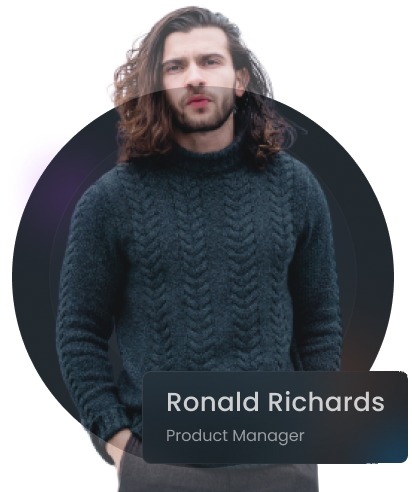
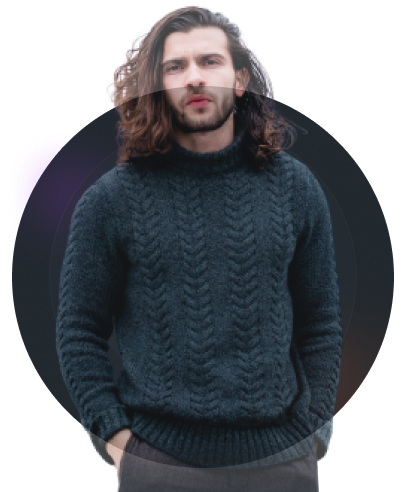
slider section adaptive

Changed region(s): [[0.3204, 0.7317, 0.9903, 0.9451], [0.3495, 0.8841, 0.4078, 0.9451]]

diff --git a/src/css/style.css b/src/css/style.css
@@ -1,1 +1,1 @@
-*,::after,::before{box-sizing:border-box}ol[class],ul[class]{padding:0}body,h1,h2,h3,h4,li,ol[class],p,ul[class]{margin:0}body{scroll-behavior:smooth;text-rendering:optimizeSpeed;background-color:#1e252b;font-family:Poppins,sans-serif;font-size:1rem}ol[class],ul[class]{list-style:none}img{max-width:100%;display:block}a{text-decoration:none}.container{max-width:1274px;margin:0 auto;padding:0 25px}.menu{display:flex;justify-content:space-between;align-items:center}.menu__links{display:flex;justify-content:space-between;align-items:center}.menu__links li{font-size:1rem}.menu__links li a{font-weight:500;color:rgba(255,255,255,.55)}.menu__links li:not(:last-child){margin-right:2.625em}.menu__links li a:hover{transition:.3s;color:#ff6e30}.logo{display:flex;align-items:center}.logo__icon{width:38px;height:38px}.logo__title{font-weight:600;font-size:1.375rem;color:#fff;margin-left:.54em}.btn{width:118px;min-height:48px;padding:12px 26px;color:#fff;background-color:#ff6e30;border-radius:8px;border:none;font-size:1rem;font-weight:600;cursor:pointer}.btn_clear{color:rgba(255,255,255,.55);background-color:#1e252b}.btn_clear:hover{border:.5px solid #ff6e30;color:#ff6e30;transition:.3s}.btn__medium{width:130px}.btn__card{width:106px;height:42px;background-color:#1e252b;color:rgba(255,255,255,.55)}.btn_big{width:184px;min-height:64px;background-color:#1e252b;color:#ff6e30;border:1px solid #343a40;font-size:1.25rem;font-weight:500}.btn_very-big{width:198px;font-size:1.125rem}.btn:hover{background-color:#1e252b;border:.5px solid #ff6e30;color:#ff6e30;transition:.3s}.title{font-weight:500;font-size:3rem;color:rgba(255,255,255,.9)}.subtitle{font-weight:400;font-size:1.125rem;line-height:1.6em;color:rgba(255,255,255,.55)}.form-search{position:relative;max-width:500px;height:64px}.form-search__input{background:#283036;border-radius:15px;width:100%;height:100%;border:1px solid #33393f;padding:21px 150px 21px 55px;color:rgba(255,255,255,.55)}.form-search__input::-moz-placeholder{font-weight:400;font-size:.875rem}.form-search__input:-ms-input-placeholder{font-weight:400;font-size:.875rem}.form-search__input::placeholder{font-weight:400;font-size:.875rem}.form-search__btn{position:absolute;right:1.7%;top:50%;transform:translateY(-50%)}.icon-search:before{font-size:1.5rem;position:absolute;margin-left:.8em;color:rgba(255,255,255,.55);top:50%;transform:translateY(-50%);z-index:1}.header{position:relative;padding:26px 0 0 0;background:url(../../img/main_bg.png) bottom right no-repeat;background-size:auto 81%}.header__content{margin-top:104px}.header__title{font-size:3.125rem;line-height:140%}.header__title span{color:#ff6e30}.header__subtitle{margin-top:30px}.header__form-search{margin-top:60px}.header__social{margin-top:110px;margin-left:15px}.header__social a::before{color:rgba(255,255,255,.9);font-size:1.5rem;margin-right:1.5em}.black{display:none;position:absolute;width:100%;min-height:43px;background-color:rgba(0,0,0,.1)}.card{width:392px;min-height:294px;padding:33px;border:1px solid #1e252b;border-radius:15px}.card__header{display:flex}.card__img{opacity:.78;margin-right:30px}.card__title{color:rgba(255,255,255,.78);font-weight:500;font-size:1.5rem}.card__title_figma{text-transform:uppercase}.card__price{margin-top:3px;color:rgba(255,165,55,.55);font-weight:400;font-size:1.1rem}.card__descr{font-weight:400;margin-top:30px;color:rgba(255,255,255,.55);font-size:1rem;line-height:1.875em}.card__descr_min{font-size:.875rem}.card__footer{margin-top:30px;display:flex;justify-content:space-between;align-items:center;padding:0 0 0 7px}.card__icon{display:flex;font-size:1.3rem}.card__like{margin-right:23px}.card__file::before,.card__like::before{color:rgba(255,255,255,.55);cursor:pointer}.card_min{width:288px;padding:28px 21px}.card:hover{background:rgba(40,48,54,.6);border:1px solid #2e343a}.card:hover .card__img{opacity:1}.card:hover .card__title{color:rgba(255,255,255,.9)}.card:hover .card__price{color:#ffa537}.card:hover .card__descr{color:rgba(255,255,255,.78)}.card:hover .card__like::before{color:rgba(255,255,255,.78)}.card:hover .card__file::before{color:rgba(255,255,255,.78)}.card:hover .btn__card{background-color:#ff6e30;color:#fff}.card:hover .btn__card:hover{background-color:rgba(40,48,54,.6);border:.5px solid #ff6e30;color:#ff6e30;transition:.3s}.tools{padding-top:200px}.tools__title{text-align:center}.tools__subtitle{text-align:center;margin-top:1.38em}.tools__cards{margin-top:90px;display:flex;justify-content:space-between;flex-wrap:wrap}.tools__card{margin-bottom:100px}.tools__btn{display:block;margin:0 auto}.brand{padding-top:200px}.brand__content{width:100%;min-height:253px;border-radius:25px;background:rgba(44,53,61,.2);padding:55px 82px}.brand__title{font-weight:500;text-align:center;color:rgba(255,255,255,.8);font-size:1.5rem}.brand__wrapper{margin-top:55px;display:flex;justify-content:space-between;align-items:center}.new-tools{padding-top:200px}.new-tools__wrapper{display:flex;justify-content:space-between}.new-tools__content{width:34%}.new-tools__subtitle{margin-top:1.6em}.new-tools__btn{margin-top:60px}.new-tools__cards{display:flex;justify-content:space-between;flex-wrap:wrap;width:48%}@media(max-width:1250px){.logo__title{font-size:1.2rem}.menu__links li{font-size:.9rem}.btn{font-size:.9rem;padding:12px;width:100px;height:40px}.btn_big{width:160px;font-size:1.1rem}.btn_very-big{width:160px;font-size:1rem}.title{font-size:2.85rem}.header__content{margin-top:70px}.header__title{font-size:2.9rem}.header__subtitle{margin-top:20px}.header__form-search{margin-top:40px}.header__social{margin-top:75px}.header__social a::before{font-size:1.3rem}.subtitle{font-size:1rem}.tools{padding-top:100px}.tools__cards{margin-top:70px;justify-content:space-around}.tools__card{margin-bottom:70px}.brand{padding-top:130px}.brand__content{padding:40px 60px;min-height:220px}.brand__title{font-size:1.4rem}.brand__wrapper{margin-top:40px}.brand__icon{width:160px}.card_min{width:340px}.new-tools{padding-top:120px}.new-tools__wrapper{flex-direction:column;align-items:center}.new-tools__content{width:100%;text-align:center}.new-tools__btn{margin-top:40px}.new-tools__cards{margin-top:50px;width:80%}}@media(max-width:991px){.logo__icon{width:33px;height:33px}.logo__title{font-size:1rem}.menu__links li{font-size:.8rem}.menu__links li:not(:last-child){margin-right:2.3em}.btn{font-size:.8rem;padding:12px;width:90px;min-height:35px}.btn__medium{width:95px}.btn__card{font-size:1rem}.btn_big{width:120px;font-size:.9rem;min-height:45px}.btn_very-big{width:140px;font-size:.9rem}.title{font-size:2.4rem}.header{padding:20px 0 0 0}.header__content{margin-top:50px}.header__title{font-size:2.5rem}.header__subtitle{margin-top:15px}.header__form-search{margin-top:40px}.header__social{margin-top:55px}.header__social a::before{font-size:1.2rem}.subtitle{font-size:.9rem}.form-search{max-width:400px;height:54px}.tools{padding-top:50px}.tools__cards{margin-top:40px;justify-content:space-between}.tools__card{margin-bottom:40px}.card{width:350px;padding:20px;min-height:240px}.card__img{width:50px}.card__title{font-size:1.3rem}.card__price{font-size:.9rem}.card__descr{font-size:.8rem}.brand{padding-top:80px}.brand__content{padding:20px 30px;min-height:150px}.brand__title{font-size:1.4rem}.brand__wrapper{margin-top:40px}.brand__icon{width:140px}.new-tools{padding-top:90px}.new-tools__cards{width:100%;justify-content:space-around}}@media(max-width:767px){.container{padding:0 15px}.black{display:block}.logo{margin-top:5px;z-index:1}.logo__icon{width:33px;height:33px}.logo__title{font-size:.9rem}.menu__links{display:none}.entry{display:none}.btn{font-size:.7rem;padding:6px;width:80px;height:30px}.btn__card{font-size:.8rem}.btn_big{width:110px;font-size:.9rem}.btn_very-big{width:110px}.title{font-size:1.9rem}.header{background-size:50% 81%;padding:0}.header__content{margin-top:20px}.header__title{font-size:2rem}.header__subtitle{margin-top:10px}.header__form-search{margin-top:30px}.header__social{margin-top:30px}.header__social a::before{font-size:1rem}.subtitle{font-size:.8rem}.form-search{max-width:300px;height:48px}.form-search__input{padding:21px 100px 21px 35px}.form-search__input::-moz-placeholder{font-size:.8rem}.form-search__input:-ms-input-placeholder{font-size:.8rem}.form-search__input::placeholder{font-size:.8rem}.icon-search:before{font-size:1.1rem;margin-left:.7em;color:rgba(255,255,255,.55);top:50%;transform:translateY(-50%);z-index:1}.tools{padding-top:30px}.tools__subtitle{margin-top:.9em}.tools__cards{margin-top:20px}.tools__card{margin-bottom:20px}.card{width:270px;padding:15px;min-height:200px}.card__img{width:40px;margin-right:15px}.card__title{font-size:1.2rem}.card__price{font-size:.7rem}.card__descr{font-size:.75rem;margin-top:15px}.card__footer{padding:0;margin-top:15px}.card__icon{font-size:1rem}.brand{padding-top:60px}.brand__content{padding:15px 10px;min-height:100px}.brand__title{font-size:1.2rem}.brand__wrapper{margin-top:25px;flex-wrap:wrap}.brand__icon{width:120px}.new-tools{padding-top:60px}.new-tools__subtitle{margin-top:1em}.new-tools__btn{margin-top:20px}.new-tools__cards{margin-top:30px}.new-tools__card{margin-bottom:5px}}@media(max-width:575px){.container{padding:0 10px}.title{font-size:1.55rem}.header{background-size:auto 81%;padding:0}.header__content{margin-top:20px}.header__title{font-size:1.6rem}.header__subtitle{margin-top:10px}.header__form-search{margin-top:30px}.header__social{margin-top:30px}.header__social a::before{font-size:1rem}.subtitle{font-size:.7rem}.tools{padding-top:20px}.tools__cards{margin-top:15px;justify-content:space-around}.tools__card{margin-bottom:8px}.card{width:300px;min-height:150px}.brand{padding-top:40px}.brand__content{padding:15px 10px 5px 10px;min-height:100px}.brand__title{font-size:1rem}.brand__wrapper{margin-top:10px;justify-content:space-around}.brand__icon{margin-bottom:10px}.new-tools{padding-top:40px}.new-tools__btn{margin-top:15px}.new-tools__cards{margin-top:20px}}
+*,::after,::before{box-sizing:border-box}ol[class],ul[class]{padding:0}body,h1,h2,h3,h4,li,ol[class],p,ul[class]{margin:0}body{scroll-behavior:smooth;text-rendering:optimizeSpeed;background-color:#1e252b;font-family:Poppins,sans-serif;font-size:1rem}ol[class],ul[class]{list-style:none}img{max-width:100%;display:block}a{text-decoration:none}.container{max-width:1274px;margin:0 auto;padding:0 25px}.arrow{width:20px;height:20px;border-top:3px solid rgba(255,255,255,.28);border-right:3px solid rgba(255,255,255,.28);border-radius:2px;cursor:pointer}.arrow:hover{transition:.3s;border-color:#ff6e30}.menu{display:flex;justify-content:space-between;align-items:center}.menu__links{display:flex;justify-content:space-between;align-items:center}.menu__links li{font-size:1rem}.menu__links li a{font-weight:500;color:rgba(255,255,255,.55)}.menu__links li:not(:last-child){margin-right:2.625em}.menu__links li a:hover{transition:.3s;color:#ff6e30}.logo{display:flex;align-items:center}.logo__icon{width:38px;height:38px}.logo__title{font-weight:600;font-size:1.375rem;color:#fff;margin-left:.54em}.btn{width:118px;min-height:48px;padding:12px 26px;color:#fff;background-color:#ff6e30;border-radius:8px;border:none;font-size:1rem;font-weight:600;cursor:pointer}.btn_clear{color:rgba(255,255,255,.55);background-color:#1e252b}.btn_clear:hover{border:.5px solid #ff6e30;color:#ff6e30;transition:.3s}.btn__medium{width:130px}.btn__card{width:106px;height:42px;background-color:#1e252b;color:rgba(255,255,255,.55)}.btn_big{width:184px;min-height:64px;background-color:#1e252b;color:#ff6e30;border:1px solid #343a40;font-size:1.25rem;font-weight:500}.btn_very-big{width:198px;font-size:1.125rem}.btn:hover{background-color:#1e252b;border:.5px solid #ff6e30;color:#ff6e30;transition:.3s}.title{font-weight:500;font-size:3rem;color:rgba(255,255,255,.9)}.subtitle{font-weight:400;font-size:1.125rem;line-height:1.6em;color:rgba(255,255,255,.55)}.form-search{position:relative;max-width:500px;height:64px}.form-search__input{background:#283036;border-radius:15px;width:100%;height:100%;border:1px solid #33393f;padding:21px 150px 21px 55px;color:rgba(255,255,255,.55)}.form-search__input::-moz-placeholder{font-weight:400;font-size:.875rem}.form-search__input:-ms-input-placeholder{font-weight:400;font-size:.875rem}.form-search__input::placeholder{font-weight:400;font-size:.875rem}.form-search__btn{position:absolute;right:1.7%;top:50%;transform:translateY(-50%)}.icon-search:before{font-size:1.5rem;position:absolute;margin-left:.8em;color:rgba(255,255,255,.55);top:50%;transform:translateY(-50%);z-index:1}.header{position:relative;padding:26px 0 0 0;background:url(../../img/main_bg.png) bottom right no-repeat;background-size:auto 81%}.header__content{margin-top:104px}.header__title{font-size:3.125rem;line-height:140%}.header__title span{color:#ff6e30}.header__subtitle{margin-top:30px}.header__form-search{margin-top:60px}.header__social{margin-top:110px;margin-left:15px}.header__social a::before{color:rgba(255,255,255,.9);font-size:1.5rem;margin-right:1.5em}.black{display:none;position:absolute;width:100%;min-height:43px;background-color:rgba(0,0,0,.1)}.card{width:392px;min-height:294px;padding:33px;border:1px solid #1e252b;border-radius:15px}.card__header{display:flex}.card__img{opacity:.78;margin-right:30px}.card__title{color:rgba(255,255,255,.78);font-weight:500;font-size:1.5rem}.card__title_figma{text-transform:uppercase}.card__price{margin-top:3px;color:rgba(255,165,55,.55);font-weight:400;font-size:1.1rem}.card__descr{font-weight:400;margin-top:30px;color:rgba(255,255,255,.55);font-size:1rem;line-height:1.875em}.card__descr_min{font-size:.875rem}.card__footer{margin-top:30px;display:flex;justify-content:space-between;align-items:center;padding:0 0 0 7px}.card__icon{display:flex;font-size:1.3rem}.card__like{margin-right:23px}.card__file::before,.card__like::before{color:rgba(255,255,255,.55);cursor:pointer}.card_min{width:288px;padding:28px 21px}.card:hover{background:rgba(40,48,54,.6);border:1px solid #2e343a}.card:hover .card__img{opacity:1}.card:hover .card__title{color:rgba(255,255,255,.9)}.card:hover .card__price{color:#ffa537}.card:hover .card__descr{color:rgba(255,255,255,.78)}.card:hover .card__like::before{color:rgba(255,255,255,.78)}.card:hover .card__file::before{color:rgba(255,255,255,.78)}.card:hover .btn__card{background-color:#ff6e30;color:#fff}.card:hover .btn__card:hover{background-color:rgba(40,48,54,.6);border:.5px solid #ff6e30;color:#ff6e30;transition:.3s}.tools{padding-top:200px}.tools__title{text-align:center}.tools__subtitle{text-align:center;margin-top:1.38em}.tools__cards{margin-top:90px;display:flex;justify-content:space-between;flex-wrap:wrap}.tools__card{margin-bottom:100px}.tools__btn{display:block;margin:0 auto}.brand{padding-top:200px}.brand__content{width:100%;min-height:253px;border-radius:25px;background:rgba(44,53,61,.2);padding:55px 82px}.brand__title{font-weight:500;text-align:center;color:rgba(255,255,255,.8);font-size:1.5rem}.brand__wrapper{margin-top:55px;display:flex;justify-content:space-between;align-items:center}.new-tools{padding-top:200px}.new-tools__wrapper{display:flex;justify-content:space-between}.new-tools__content{width:34%}.new-tools__subtitle{margin-top:1.6em}.new-tools__btn{margin-top:60px}.new-tools__cards{display:flex;justify-content:space-between;flex-wrap:wrap;width:48%}.slider{padding:200px 20px 0 20px}.slider__wrapper{display:flex;justify-content:space-between;align-items:center}.slider__back{transform:rotate(-135deg)}.slider__next{transform:rotate(45deg)}.slider__item{display:flex;justify-content:space-between;align-items:center;width:66%;position:relative}.slider__img{position:relative;max-width:399px}.slider__member{position:absolute;bottom:7%;right:3px;max-width:265px;background-color:rgba(40,48,54,.2);border:1px solid #38444e;border-radius:8px;-webkit-backdrop-filter:blur(50px);backdrop-filter:blur(50px);padding:10px 22px 16px 22px}.slider__title{color:rgba(255,255,255,.78);font-weight:500;font-size:1.625rem}.slider__subtitle{font-size:1rem;font-weight:400;color:rgba(255,255,255,.55)}.slider__quoutes{position:absolute;bottom:60%;left:48%}.slider__descr{width:46%;font-family:Roboto,sans-serif;font-weight:400;color:rgba(255,255,255,.78);font-size:.875rem;line-height:2.14em}.slider__count{margin:0 auto;margin-top:100px;max-width:168px;display:flex;justify-content:space-between}.slider__step{width:44px;height:6px;background-color:#283036;border-radius:4px}.slider__step_active{background-color:#ff6e30}@media(max-width:1250px){.logo__title{font-size:1.2rem}.menu__links li{font-size:.9rem}.btn{font-size:.9rem;padding:12px;width:100px;height:40px}.btn_big{width:160px;font-size:1.1rem}.btn_very-big{width:160px;font-size:1rem}.title{font-size:2.85rem}.header__content{margin-top:70px}.header__title{font-size:2.9rem}.header__subtitle{margin-top:20px}.header__form-search{margin-top:40px}.header__social{margin-top:75px}.header__social a::before{font-size:1.3rem}.subtitle{font-size:1rem}.tools{padding-top:100px}.tools__cards{margin-top:70px;justify-content:space-around}.tools__card{margin-bottom:70px}.brand{padding-top:130px}.brand__content{padding:40px 60px;min-height:220px}.brand__title{font-size:1.4rem}.brand__wrapper{margin-top:40px}.brand__icon{width:160px}.card_min{width:340px}.new-tools{padding-top:120px}.new-tools__wrapper{flex-direction:column;align-items:center}.new-tools__content{width:100%;text-align:center}.new-tools__btn{margin-top:40px}.new-tools__cards{margin-top:50px;width:80%}.slider{padding:130px 20px 0 20px}.slider__item{width:90%}}@media(max-width:991px){.logo__icon{width:33px;height:33px}.logo__title{font-size:1rem}.menu__links li{font-size:.8rem}.menu__links li:not(:last-child){margin-right:2.3em}.btn{font-size:.8rem;padding:12px;width:90px;min-height:35px}.btn__medium{width:95px}.btn__card{font-size:1rem}.btn_big{width:120px;font-size:.9rem;min-height:45px}.btn_very-big{width:140px;font-size:.9rem}.title{font-size:2.4rem}.header{padding:20px 0 0 0}.header__content{margin-top:50px}.header__title{font-size:2.5rem}.header__subtitle{margin-top:15px}.header__form-search{margin-top:40px}.header__social{margin-top:55px}.header__social a::before{font-size:1.2rem}.subtitle{font-size:.9rem}.form-search{max-width:400px;height:54px}.tools{padding-top:50px}.tools__cards{margin-top:40px;justify-content:space-between}.tools__card{margin-bottom:40px}.card{width:350px;padding:20px;min-height:240px}.card__img{width:50px}.card__title{font-size:1.3rem}.card__price{font-size:.9rem}.card__descr{font-size:.8rem}.brand{padding-top:80px}.brand__content{padding:20px 30px;min-height:150px}.brand__title{font-size:1.4rem}.brand__wrapper{margin-top:40px}.brand__icon{width:140px}.new-tools{padding-top:90px}.new-tools__cards{width:100%;justify-content:space-around}.arrow{width:16px;height:16px}.slider{padding:90px 20px 0 20px}.slider__descr{font-size:.7rem}.slider__quoutes{width:70px;bottom:65%;left:54%}.slider__img{width:50%}.slider__title{font-size:1rem}.slider__subtitle{font-size:.8rem}.slider__count{margin-top:50px;max-width:130px}.slider__step{width:30px}}@media(max-width:767px){.container{padding:0 15px}.black{display:block}.logo{margin-top:5px;z-index:1}.logo__icon{width:33px;height:33px}.logo__title{font-size:.9rem}.menu__links{display:none}.entry{display:none}.btn{font-size:.7rem;padding:6px;width:80px;height:30px}.btn__card{font-size:.8rem}.btn_big{width:110px;font-size:.9rem}.btn_very-big{width:110px}.title{font-size:1.9rem}.header{background-size:50% 81%;padding:0}.header__content{margin-top:20px}.header__title{font-size:2rem}.header__subtitle{margin-top:10px}.header__form-search{margin-top:30px}.header__social{margin-top:30px}.header__social a::before{font-size:1rem}.subtitle{font-size:.8rem}.form-search{max-width:300px;height:48px}.form-search__input{padding:21px 100px 21px 35px}.form-search__input::-moz-placeholder{font-size:.8rem}.form-search__input:-ms-input-placeholder{font-size:.8rem}.form-search__input::placeholder{font-size:.8rem}.icon-search:before{font-size:1.1rem;margin-left:.7em;color:rgba(255,255,255,.55);top:50%;transform:translateY(-50%);z-index:1}.tools{padding-top:30px}.tools__subtitle{margin-top:.9em}.tools__cards{margin-top:20px}.tools__card{margin-bottom:20px}.card{width:270px;padding:15px;min-height:200px}.card__img{width:40px;margin-right:15px}.card__title{font-size:1.2rem}.card__price{font-size:.7rem}.card__descr{font-size:.75rem;margin-top:15px}.card__footer{padding:0;margin-top:15px}.card__icon{font-size:1rem}.brand{padding-top:60px}.brand__content{padding:15px 10px;min-height:100px}.brand__title{font-size:1.2rem}.brand__wrapper{margin-top:25px;flex-wrap:wrap}.brand__icon{width:120px}.new-tools{padding-top:60px}.new-tools__subtitle{margin-top:1em}.new-tools__btn{margin-top:20px}.new-tools__cards{margin-top:30px}.new-tools__card{margin-bottom:5px}.slider{padding:40px 20px 0 20px}.slider__descr{font-size:.65rem}.slider__member{padding:8px 15px}.slider__title{font-size:.9rem}.slider__subtitle{font-size:.7rem}.slider__count{margin-top:40px;width:120px}}@media(max-width:575px){.container{padding:0 10px}.title{font-size:1.55rem}.header{background-size:auto 81%;padding:0}.header__content{margin-top:20px}.header__title{font-size:1.6rem}.header__subtitle{margin-top:10px}.header__form-search{margin-top:30px}.header__social{margin-top:30px}.header__social a::before{font-size:1rem}.subtitle{font-size:.7rem}.tools{padding-top:20px}.tools__cards{margin-top:15px;justify-content:space-around}.tools__card{margin-bottom:8px}.card{width:300px;min-height:150px}.brand{padding-top:40px}.brand__content{padding:15px 10px 5px 10px;min-height:100px}.brand__title{font-size:1rem}.brand__wrapper{margin-top:10px;justify-content:space-around}.brand__icon{margin-bottom:10px}.new-tools{padding-top:40px}.new-tools__btn{margin-top:15px}.new-tools__cards{margin-top:20px}.slider{padding:20px 10px 0 10px}.slider__item{flex-direction:column}.slider__img{width:75%}.slider__descr{width:80%;text-align:center}.slider__member{padding:5px 10px}.slider__title{font-size:.8rem}.slider__subtitle{font-size:.6rem}.slider__count{margin-top:20px;max-width:100px}.slider__step{width:25px}}

diff --git a/src/sass/base/_media.scss b/src/sass/base/_media.scss
@@ -98,6 +98,12 @@
             width: 80%
         }
     }
+    .slider {
+        padding: 130px 20px 0 20px;
+        &__item {
+            width: 90%;
+        }
+    }
 }
 
 
@@ -221,6 +227,37 @@
         &__cards {
             width: 100%;
             justify-content: space-around;
+        }
+    }
+    .arrow {
+        width: 16px;
+        height: 16px;
+    }
+    .slider {
+        padding: 90px 20px 0 20px;
+        &__descr {
+            font-size: 0.7rem;
+        }
+        &__quoutes {
+            width: 70px;
+            bottom: 65%;
+            left: 54%;
+        }
+        &__img {
+            width: 50%;
+        }
+        &__title {
+            font-size: 1rem;
+        }
+        &__subtitle {
+            font-size: 0.8rem;
+        }
+        &__count {
+            margin-top: 50px;
+            max-width: 130px;
+        }
+        &__step {
+            width: 30px;
         }
     }
 }
@@ -385,6 +422,25 @@
             margin-bottom: 5px;
         }
     }
+    .slider {
+        padding: 40px 20px 0 20px;
+        &__descr {
+            font-size: 0.65rem;
+        }
+        &__member {
+            padding: 8px 15px;
+        }
+        &__title {
+            font-size: 0.9rem;
+        }
+        &__subtitle {
+            font-size: 0.7rem;
+        }
+        &__count {
+            margin-top: 40px;
+            width: 120px;
+        }
+    }
 }
 
 
@@ -458,6 +514,35 @@
         }
         &__cards {
             margin-top: 20px;
+        }
+    }
+    .slider {
+        padding: 20px 10px 0 10px;
+        &__item {
+            flex-direction: column;
+        }
+        &__img {
+            width: 75%;
+        }
+        &__descr {
+            width: 80%;
+            text-align: center;
+        }
+        &__member {
+            padding: 5px 10px;
+        }
+        &__title {
+            font-size: 0.8rem;
+        }
+        &__subtitle {
+            font-size: 0.6rem;
+        }
+        &__count {
+            margin-top: 20px;
+            max-width: 100px;
+        }
+        &__step {
+            width: 25px;
         }
     }
 }

diff --git a/src/sass/blocks/_slider.scss b/src/sass/blocks/_slider.scss
@@ -1,0 +1,75 @@
+.slider {
+    padding: 200px 20px 0 20px;
+    &__wrapper {
+        display: flex;
+        justify-content: space-between;
+        align-items: center;
+    }
+    &__back {
+        transform: rotate(-135deg); 
+    }
+    &__next {
+        transform: rotate(45deg); 
+    }
+    &__item {
+        display: flex;
+        justify-content: space-between;
+        align-items: center;
+        width: 66%;
+        position: relative;
+    }
+    &__img {
+        position: relative;
+        max-width: 399px;
+    }
+    &__member {
+        position: absolute;
+        bottom: 7%;
+        right: 3px;
+        max-width: 265px;
+        background-color: rgba(40, 48, 54, 0.2);
+        border: 1px solid #38444E;
+        border-radius: 8px;
+        backdrop-filter: blur(50px);
+        padding: 10px 22px 16px 22px;
+    }
+    &__title {
+        color: $mainSemiWhite;
+        font-weight: 500;
+        font-size: 1.625rem;
+    }
+    &__subtitle {
+        font-size: 1rem;
+        font-weight: 400;
+        color: $mainSemiDark;
+    }
+    &__quoutes {
+        position: absolute;
+        bottom: 60%;
+        left: 48%;
+    }
+    &__descr {
+        width: 46%;
+        font-family: 'Roboto', sans-serif;
+        font-weight: 400;
+        color: $mainSemiWhite;
+        font-size: 0.875rem;
+        line-height: 2.14em;
+    }
+    &__count {
+        margin: 0 auto;
+        margin-top: 100px;
+        max-width: 168px;
+        display: flex;
+        justify-content: space-between;
+    }
+    &__step {
+        width: 44px;
+        height: 6px;
+        background-color: $secondDark;
+        border-radius: 4px;
+        &_active {
+            background-color: $mainOrange;
+        }
+    }
+}

diff --git a/src/index.html b/src/index.html
@@ -251,5 +251,29 @@
             </div>
         </div>
     </section>
+    <section class="slider">
+        <div class="container">
+            <div class="slider__wrapper">
+                <div class="slider__back arrow"></div>
+                <div class="slider__item">
+                    <div class="slider__img">
+                        <img src="img/member/member_ronald.png" alt="ronald">
+                        <div class="slider__member">
+                            <h2 class="slider__title">Ronald Richards</h2>
+                            <h3 class="slider__subtitle">Product Manager</h3>
+                        </div>
+                    </div>
+                    <img src="img/quotes.png" alt="quotes" class="slider__quoutes">
+                    <p class="slider__descr">Incididunt cillum do sint sint enim ullamco id deserunt mollit qui reprehenderit do. Velit ex tempor cillum ad sint occaecat. Do nulla velit labore occaecat do deserunt Lorem magna officia incididunt consectetur amet. Sunt consectetur veniam minim ex commodo sint non. Occaecat aute officia excepteur non laboris id qui ad.</p>
+                </div>
+                <div class="slider__next arrow"></div>
+            </div>
+            <div class="slider__count">
+                <div class="slider__step"></div>
+                <div class="slider__step slider__step_active"></div>
+                <div class="slider__step"></div>
+            </div>
+        </div>
+    </section>
 </body>
 </html>

diff --git a/src/sass/style.scss b/src/sass/style.scss
@@ -56,6 +56,7 @@ a {
   padding: 0 25px;
 }
 
+@import 'blocks/arrow';
 @import 'blocks/menu';
 @import 'blocks/logo';
 @import 'blocks/buttons';
@@ -66,6 +67,7 @@ a {
 @import 'blocks/tools';
 @import 'blocks/brand';
 @import 'blocks/new-tools';
+@import 'blocks/slider';
 @import 'base/media';
 
 

diff --git a/src/sass/blocks/_arrow.scss b/src/sass/blocks/_arrow.scss
@@ -1,0 +1,12 @@
+.arrow {
+    width: 20px;
+    height: 20px;
+    border-top: 3px solid rgba(255, 255, 255, 0.28);
+    border-right: 3px solid rgba(255, 255, 255, 0.28);
+    border-radius: 2px;
+    cursor: pointer;
+}
+.arrow:hover {
+    transition: 0.3s;
+    border-color: $mainOrange;
+}
